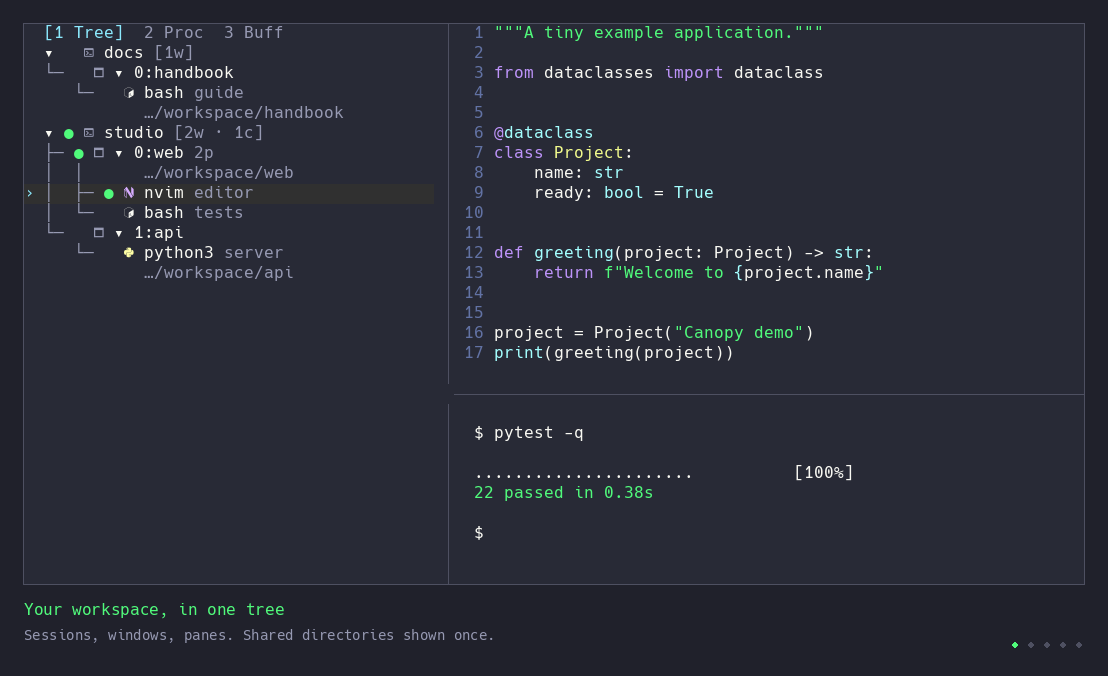
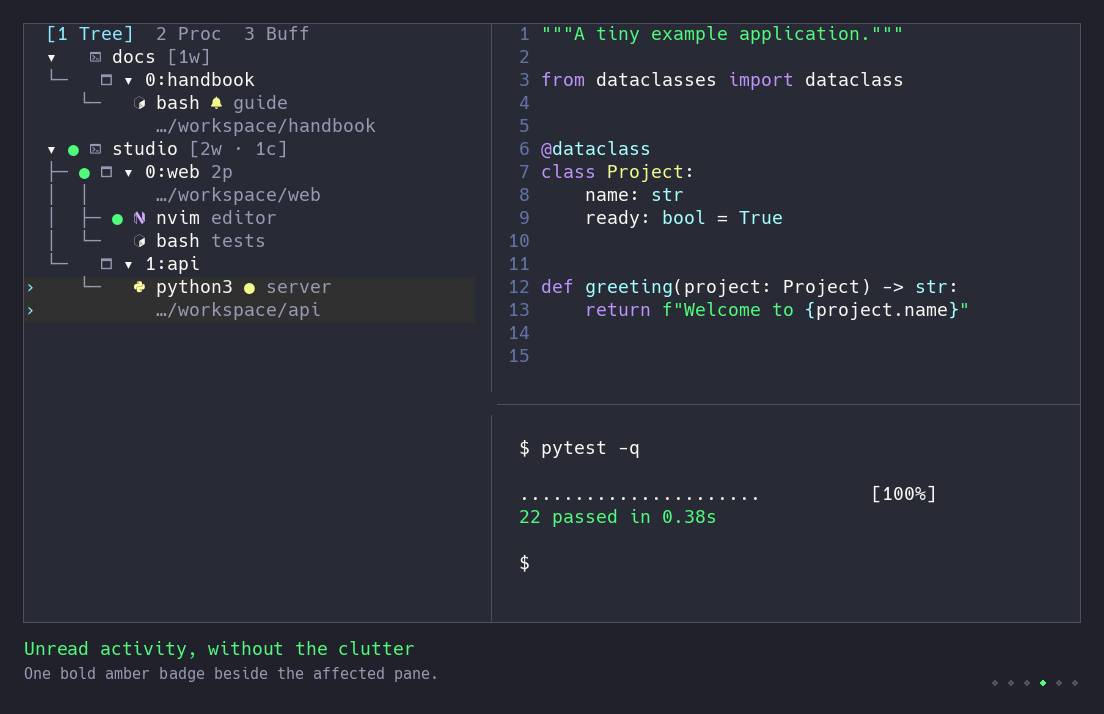
update to one badge for notification awareness in panes

diff --git a/docs/demo/generate.py b/docs/demo/generate.py
@@ -17,8 +17,8 @@ import threading
 import time
 from PIL import Image, ImageDraw, ImageFont
 
-COLS, ROWS = 106, 28
-CW, CH, PAD, TOP = 10, 20, 24, 24
+COLS, ROWS = 96, 26
+CW, CH, PAD, TOP = 11, 23, 24, 24
 # ANSI palettes from the themes' official Alacritty ports; see README.md.
 THEMES = {
     'canopy': {
@@ -132,8 +132,8 @@ def main():
             raise SystemExit(f'Missing dependency: {tool}')
     font_path = args.font or sp.check_output(
         ['fc-match', '-f', '%{file}', 'Hack Nerd Font Mono'], text=True)
-    font = ImageFont.truetype(font_path, 16)
-    small_font = ImageFont.truetype(font_path, 14)
+    font = ImageFont.truetype(font_path, 18)
+    small_font = ImageFont.truetype(font_path, 15)
     frames, durations, captures = [], [], []
     client_process = master = None
     with tempfile.TemporaryDirectory(prefix='canopy-demo-') as directory:
@@ -198,8 +198,8 @@ def main():
                 x = w - PAD - label_width
                 draw.rounded_rectangle((x, y - 2, w - PAD, y + 26), radius=5, fill=theme['ansi'][0])
                 draw.text((x + 12, y + 1), shortcut, font=font, fill=FG)
-            for n in range(5):
-                x = w - PAD - 72 + n * 16
+            for n in range(6):
+                x = w - PAD - 88 + n * 16
                 draw.ellipse((x, y + 42, x + 5, y + 47), fill=GREEN if n == chapter else border)
             frames.append(image)
             durations.append(duration)
@@ -254,6 +254,7 @@ def main():
             run('toggle', client, editor, '42', 'global', 'T', 'Tab', 'slot')
             sidebar = next(row.split('|')[0] for row in tm('list-panes', '-a', '-F', '#{pane_id}|#{@tmux_canopy}').splitlines() if row.endswith('|1'))
             time.sleep(1)
+            tm('set-option', '-g', '@tmux_canopy_notifications', 'all')
             keys(*(['Up'] * 12 + ['Down'] * 5))
             overview = (0, 'Your workspace, in one tree', 'Sessions, windows, panes. Shared directories shown once.', '')
             capture(*overview, duration=2600)
@@ -277,16 +278,28 @@ def main():
                 capture(*search, duration=180)
             capture(*search, duration=1900)
             keys('Escape')
+            # Real notification providers on fictional background panes only.
+            for pane, provider in ((api_pane, 'activity'), (doc_pane, 'bell')):
+                window = tm('display-message', '-p', '-t', pane, '#{window_id}')
+                run('notify', 'set', window, pane, provider)
+            time.sleep(.4)
+            keys('C-r')
+            capture(3, 'Unread activity, without the clutter', 'One bold amber badge beside the affected pane.', '', 2600)
             keys('H')
-            capture(3, 'Less noise when you need focus', 'Collapse every branch, then expand the full tree again.', 'H  /  L', 1600)
+            capture(3, 'Unread activity, without the clutter', 'Collapsed branches keep their unread summary.', 'H', 1900)
             keys('L')
-            capture(3, 'Less noise when you need focus', 'Collapse every branch, then expand the full tree again.', 'H  /  L', 1600)
+            capture(3, 'Unread activity, without the clutter', 'Expand to see exactly which pane needs a look.', 'L', 1400)
+            keys('U')
+            keys('H')
+            capture(4, 'Less noise when you need focus', 'Collapse every branch, then expand the full tree again.', 'H  /  L', 1600)
+            keys('L')
+            capture(4, 'Less noise when you need focus', 'Collapse every branch, then expand the full tree again.', 'H  /  L', 1600)
             keys('3')
             keys('Up', 'Up')
             keys('p')
-            capture(4, 'Keep useful snippets close', 'Browse tmux buffers and preview their contents.', '3  /  p', 2100)
+            capture(5, 'Keep useful snippets close', 'Browse tmux buffers and preview their contents.', '3  /  p', 2100)
             keys('j')
-            capture(4, 'Keep useful snippets close', 'Browse tmux buffers and preview their contents.', 'j  /  k', 1600)
+            capture(5, 'Keep useful snippets close', 'Browse tmux buffers and preview their contents.', 'j  /  k', 1600)
             keys('p')
             keys('1')
             keys(*(['Up'] * 12 + ['Down'] * 5))
@@ -304,7 +317,8 @@ def main():
     palette = contact.quantize(colors=128, method=Image.Quantize.MEDIANCUT)
     indexed = [frame.quantize(palette=palette, dither=Image.Dither.NONE) for frame in frames]
     indexed[0].save(args.output / 'canopy-demo.gif', save_all=True, append_images=indexed[1:], duration=durations, loop=0, optimize=True, disposal=1)
-    frames[0].save(args.output / 'canopy-demo.png', optimize=True)
+    poster = next((frame for frame, metadata in zip(frames, captures) if metadata['chapter'] == 3), frames[0])
+    poster.save(args.output / 'canopy-demo.png', optimize=True)
     (args.output / 'canopy-demo-captures.json').write_text(json.dumps(captures, indent=2))
     print(f'Wrote {len(frames)} frames, {sum(durations)/1000:.1f}s, {(args.output / "canopy-demo.gif").stat().st_size:,} bytes to {args.output}')
 

diff --git a/tests/notifications.py b/tests/notifications.py
@@ -1,0 +1,77 @@
+#!/usr/bin/env python3
+"""Notification placement, unique descendant counts, and portable glyphs."""
+import os
+from pathlib import Path
+import subprocess as sp
+import tempfile
+
+ROOT = Path(__file__).resolve().parents[1]
+
+
+def main():
+    with tempfile.TemporaryDirectory(prefix='canopy-notifications-test-') as directory:
+        state = Path(directory) / 'state'
+
+        def render(*, collapsed='', icons='nerdfont', theme='ansi', density='normal',
+                   enabled=True, linked=False, orphan=False, width=42):
+            state.write_text(collapsed)
+            data = [
+                ['D', icons, 'all' if enabled else 'none', theme, density, '', '', '', '%0', '@0', '$0', str(width), 'host'],
+                ['S', '$0', 'work', '1'],
+                ['W', '$0', '@0', '0', 'web', '2' if linked else '1', 'off', '1', '1', '0'],
+                ['W', '$0', '@1', '1', 'api', '1', 'off', '0', '0', '1'],
+                ['P', '%0', '@0', '0', 'nvim', '', '/work/web', '0', '', '', '1', '1', '0', '', '', ''],
+                ['P', '%1', '@0', '1', 'bash', '', '/work/web', '0', '', '', '1', '0', '0', '', '', ''],
+                ['P', '%2', '@1', '0', 'python3', '', '/work/api', '0', '', '', '0', '0', '1', '', '', ''],
+                ['P', '%90', '@0', '90', 'fzf', '', '/internal', '0', '1', '', '1', '1', '1', '', '', ''],
+                ['P', '%91', '@0', '91', '', '', '/internal', '0', '', '1', '1', '1', '1', '', '', ''],
+            ]
+            if orphan:
+                for row in data:
+                    if row[0] == 'P':
+                        row[10:13] = ['0'] * 3
+            if linked:
+                data += [['S', '$1', 'linked', '0'], ['W', '$1', '@0', '3', 'web', '2', 'off', '1', '1', '0']]
+            result = sp.check_output(['awk', '-v', 'stable=1', '-v', 'nul=1', '-f', str(ROOT/'lib/tree-render.awk'), str(state), '-'],
+                                     input='\n'.join('\x1f'.join(row) for row in data)+'\n', text=True,
+                                     env=os.environ | {'TMUX_CANOPY_RENDER_CLIENT': '', 'TMUX_CANOPY_RENDER_HOME': '/home/test'})
+            rows = [line.split('\t') for line in result.rstrip('\0').split('\0')]
+            assert all(len(row) == 3 for row in rows)
+            assert len({row[2] for row in rows}) == len(rows)
+            return {row[2]: row[1] for row in rows}
+
+        for icons, activity, bell, silence in [('nerdfont', '●', '', '◷'), ('unicode', '●', '🔔', '◷'), ('ascii', '*', 'B', '~')]:
+            for theme in ('ansi', 'mono'):
+                badge = lambda glyph: '\x1b[1;33m'+glyph+'\x1b[0m' if theme == 'ansi' else glyph
+                for density in ('normal', 'compact', 'detailed'):
+                    for width in (24, 42, 80):
+                        args = dict(icons=icons, theme=theme, density=density, width=width)
+                        rows = render(**args)
+                        assert 'nvim '+badge(bell) in rows['P:%0:$0']
+                        assert 'bash '+badge(activity) in rows['P:%1:$0']
+                        assert 'python3 '+badge(silence) in rows['P:%2:$0']
+                        assert not any('!' in row or bell+'1' in row for row in rows.values())
+                        for identity in ('S:$0', 'W:@0:$0', 'W:@1:$0'):
+                            assert badge(bell) not in rows[identity] and badge(silence) not in rows[identity]
+                            if theme == 'ansi':
+                                assert '\x1b[1;33m' not in rows[identity]
+                        collapsed = render(collapsed='W:@0:$0\nW:@1:$0\n', **args)
+                        assert 'web '+badge(bell+'2') in collapsed['W:@0:$0']
+                        assert 'api '+badge(silence) in collapsed['W:@1:$0']
+                        assert not any(k.startswith('P:') for k in collapsed)
+                        sessions = render(collapsed='S:$0\nS:$1\n', linked=True, **args)
+                        assert 'work '+badge(bell+'2') in sessions['S:$0']
+                        assert 'linked '+badge(bell) in sessions['S:$1']
+                        disabled = render(enabled=False, **args)
+                        assert 'nvim '+badge(bell) not in disabled['P:%0:$0']
+                        orphan = render(orphan=True, **args)
+                        assert 'web '+badge(bell) in orphan['W:@0:$0']
+                        if theme == 'ansi':
+                            assert '\x1b[1;32m●\x1b[0m' in rows['P:%0:$0']
+                        else:
+                            assert all('\x1b' not in value for value in rows.values())
+        print('ok - one badge per pane, collapsed unique counts, priority, linked rows, fallback, themes and densities')
+
+
+if __name__ == '__main__':
+    main()

diff --git a/tests/preview.py b/tests/preview.py
@@ -146,6 +146,28 @@ while True:
                 assert len(run('sidebar-preview', token).splitlines()) <= 12
             assert 'no longer available' in run('sidebar-preview', 'P:%999999')
             print('ok - compact row budgets, latest shell output, color/Unicode, and missing panes')
+            tm('set-option', '-g', '@tmux_canopy_notifications', 'all')
+            for provider in ('activity', 'bell', 'silence'):
+                tm('set-option', '-p', '-t', pane, '@tmux_canopy_notice_pane_' + provider, '1')
+            for rows in ('1', '2', '3', '6', '12'):
+                flagged = run('sidebar-preview', 'P:' + pane, extra={'FZF_PREVIEW_LINES': rows})
+                assert flagged.startswith('Unread: activity, bell, silence\n'), flagged
+                assert len(flagged.splitlines()) <= int(rows)
+            window = display(pane, '#{window_id}')
+            session = display(pane, '#{session_id}')
+            for provider in ('activity', 'bell', 'silence'):
+                tm('set-option', '-w', '-t', window, '@tmux_canopy_notice_' + provider, '1')
+            for token in ('W:' + window, 'S:' + session):
+                assert 'unread: activity bell silence' in run('sidebar-preview', token)
+            tm('set-option', '-g', '@tmux_canopy_notifications', 'none')
+            for token in ('P:' + pane, 'W:' + window, 'S:' + session):
+                assert 'unread:' not in run('sidebar-preview', token).lower()
+            tm('set-option', '-g', '@tmux_canopy_notifications', 'all')
+            for provider in ('activity', 'bell', 'silence'):
+                tm('set-option', '-wu', '-t', window, '@tmux_canopy_notice_' + provider)
+                tm('set-option', '-pu', '-t', pane, '@tmux_canopy_notice_pane_' + provider)
+            print('ok - preview lists all notification types without exceeding its row budget')
+
 
             tm('send-keys', '-t', sidebar, 'M-t')
             before = probe()

diff --git a/docs/reference.md b/docs/reference.md
@@ -282,9 +282,9 @@ Notification sources are comma-separated:
 
 | Source | Badge | Trigger |
 |---|---|---|
-| `activity` | `!N` | Output appears in another tmux window |
-| `bell` | `BN` | An application emits a terminal bell |
-| `silence` | `…N` | A monitored window is silent for the configured interval |
+| `activity` | Amber `●` (`*` in ASCII) | Output appears in another tmux window |
+| `bell` | Amber bell (`B` in ASCII) | An application emits a terminal bell |
+| `silence` | Amber `◷` (`~` in ASCII) | A monitored window is silent for the configured interval |
 | `none` | — | Disable notification hooks |
 | `all` | all | Enable every native provider |
 
@@ -299,6 +299,8 @@ Choose exactly where native alerts are presented:
 The default is `sidebar`. Original `window-status-activity-style`, `window-status-bell-style`, and alert-action values are saved and restored when switching modes. The `status` and `both` modes set configured alert actions to `other` so tmux actually marks background windows. Custom status formats that explicitly contain `#F`, `#{window_flags}`, or alert conditionals must omit those expressions if strict sidebar-only display is desired; tmux does not expose a separate hook-only alert flag.
 
 Native tmux alert hooks record provider state only when tmux supplies a live, non-sidebar, non-placeholder pane and its owning window. Events without a valid open terminal pane are ignored. No process scanner, Git poller, agent API, or external desktop event can create a notification in the default model.
+
+A single bold amber badge sits immediately after the name. Expanded branches show badges on affected panes, without repeating the alert on their ancestors. Collapsed windows count unread panes; collapsed sessions count unread windows. Counts appear only above one, and multiple providers on one target count once. A bell takes priority over activity, then silence; previews list all recorded types. A window-level alert with no remaining flagged pane stays visible on the window until cleared. The green active-location marker is unchanged.
 
 The hooks record provider state on the affected pane and window. Press `u` to clear the selected pane's window, window, or whole session; press `U` to clear all unread state. The tree aggregates unread windows into session rows and clears transient state when the owning client focuses that window. Sidebar, placeholder, dead, missing and wrong-window event sources are ignored.
 

diff --git a/docs/demo/README.md b/docs/demo/README.md
@@ -21,3 +21,5 @@ Before publishing, inspect the GIF and text audit for unexpected content and mis
 Dracula is the default for the README preview. Choose `--theme dracula`, `--theme catppuccin-mocha`, `--theme tokyo-night`, or `--theme canopy` (the original demo colors). The banner above the terminal is omitted; feature captions and shortcut hints remain below it.
 
 ANSI colors and default backgrounds/foregrounds come from the official [Dracula](https://github.com/dracula/alacritty/blob/master/dracula.toml), [Catppuccin Mocha](https://github.com/catppuccin/alacritty/blob/main/catppuccin-mocha.toml), and [Tokyo Night](https://github.com/folke/tokyonight.nvim/blob/main/extras/alacritty/tokyonight_night.toml) terminal palettes. Muted text and the surrounding caption frame use demo-specific shades.
+
+The preview uses 18-pixel terminal text in a 96-column layout, with full-resolution GIF and PNG assets. Click the README animation to open it at full size. Notification scenes show generated activity and bell events on fictional background panes.

diff --git a/README.md b/README.md
@@ -8,7 +8,7 @@ Canopy moves the same sidebar pane as you switch windows and sessions, preservin
 
 ## Preview
 
-![Animated tmux-canopy demo showing window navigation, search, folding, and buffer previews in fictional workspaces](docs/assets/canopy-demo.gif)
+[![Animated tmux-canopy demo showing navigation, readable notification badges, search, folding, and buffers](docs/assets/canopy-demo.gif)](docs/assets/canopy-demo.gif)
 
 [View a still image](docs/assets/canopy-demo.png).
 

diff --git a/CHANGELOG.md b/CHANGELOG.md
@@ -9,6 +9,10 @@
 - Responsive help, shared-directory grouping, colored application icons, and selection highlighting.
 - Apache 2.0 license, public installation instructions, and automated release checks.
 
+### Changed
+
+- Notifications use one amber badge beside each affected pane, with counts on collapsed branches and full types in previews.
+
 ### Fixed
 
 - Slot navigation uses native empty panes, fixing new-window follow failures on macOS caused by `sleep infinity`.
